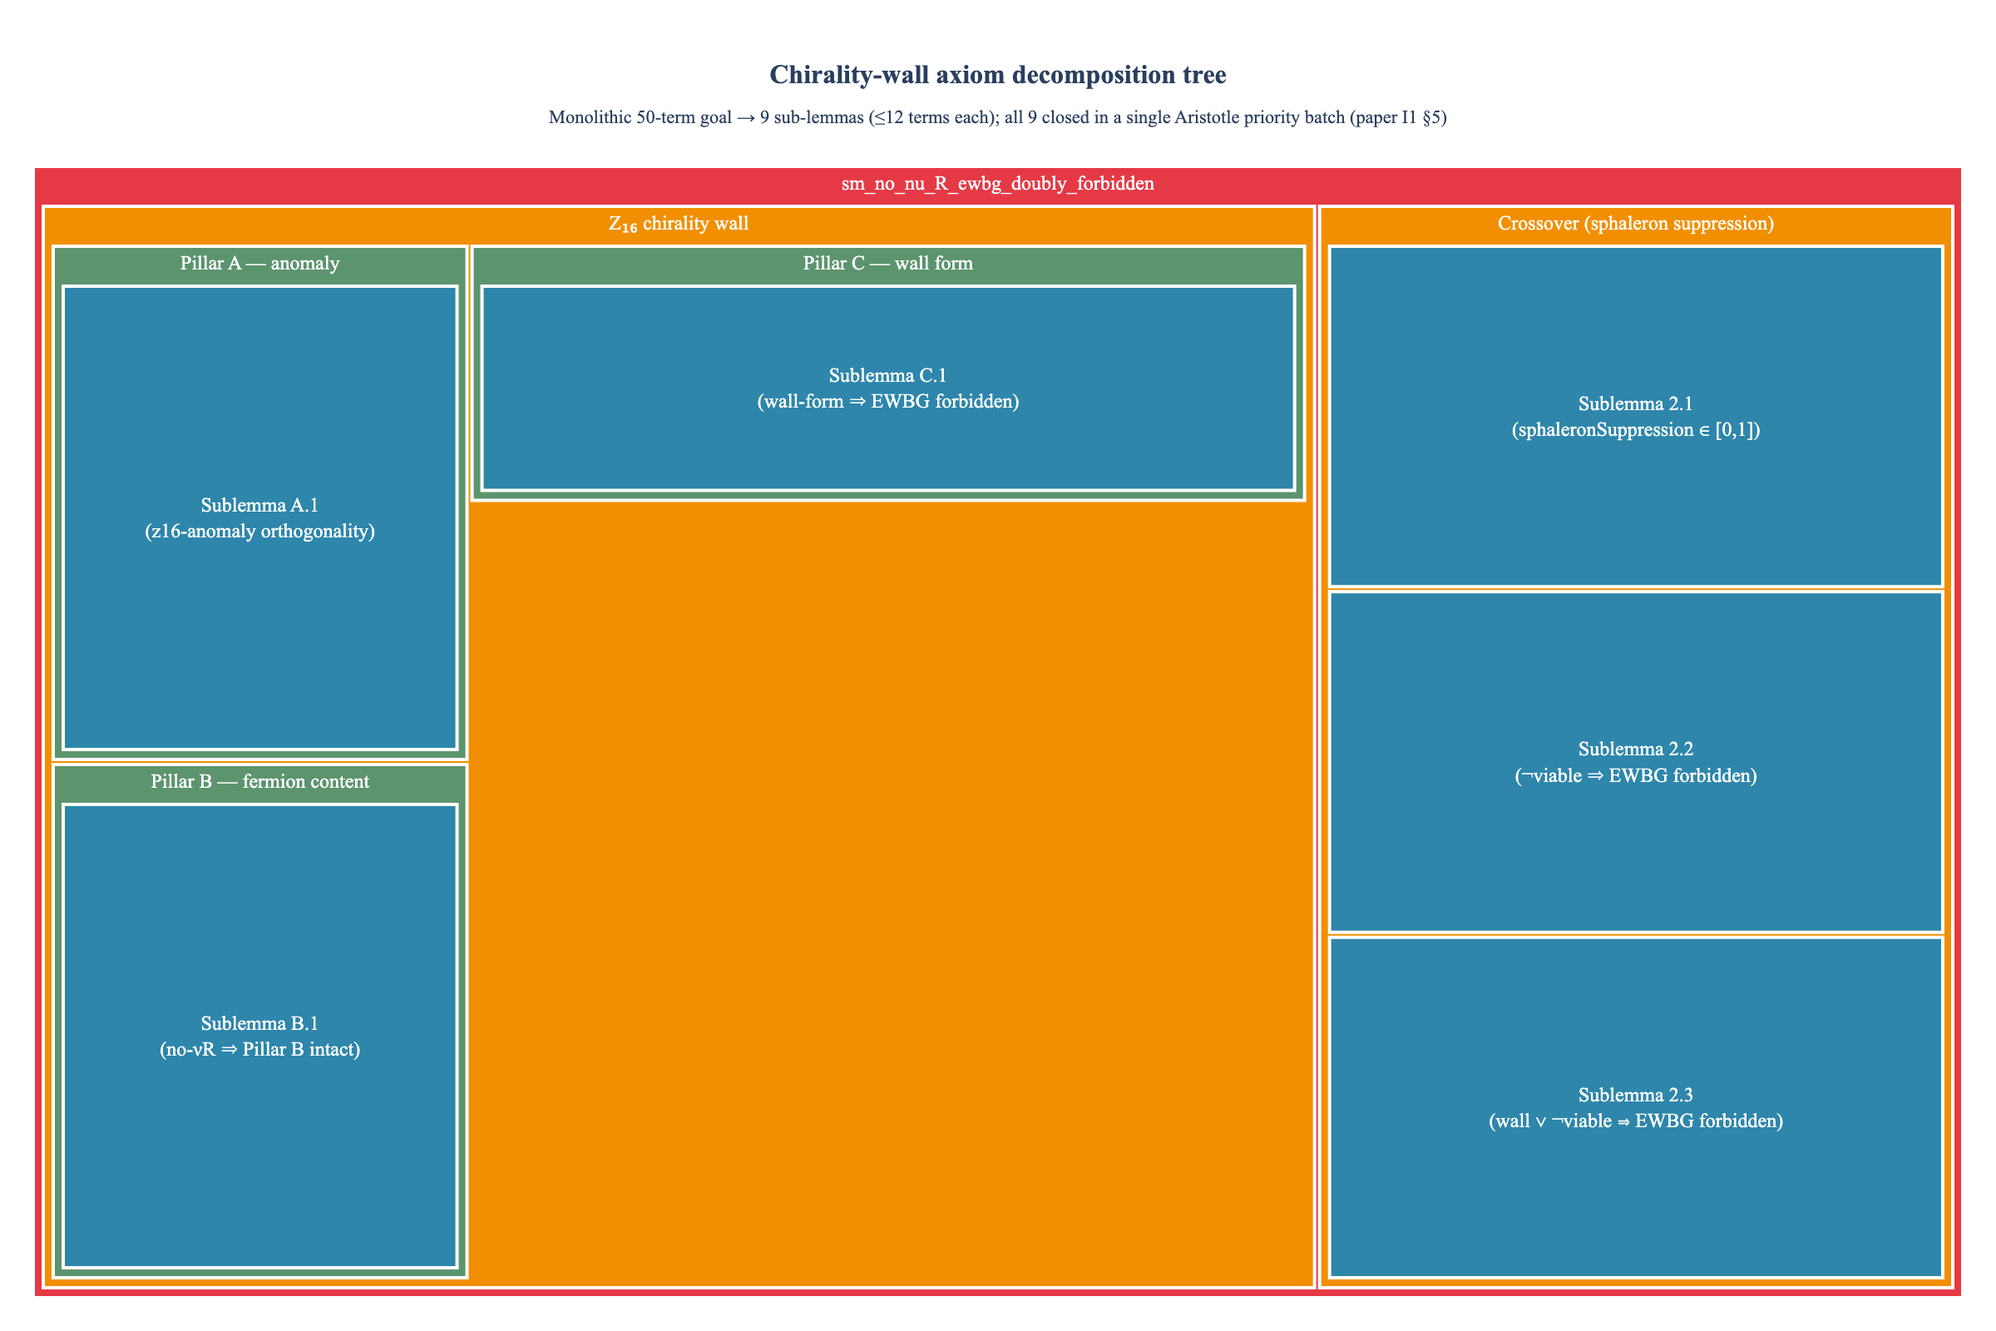
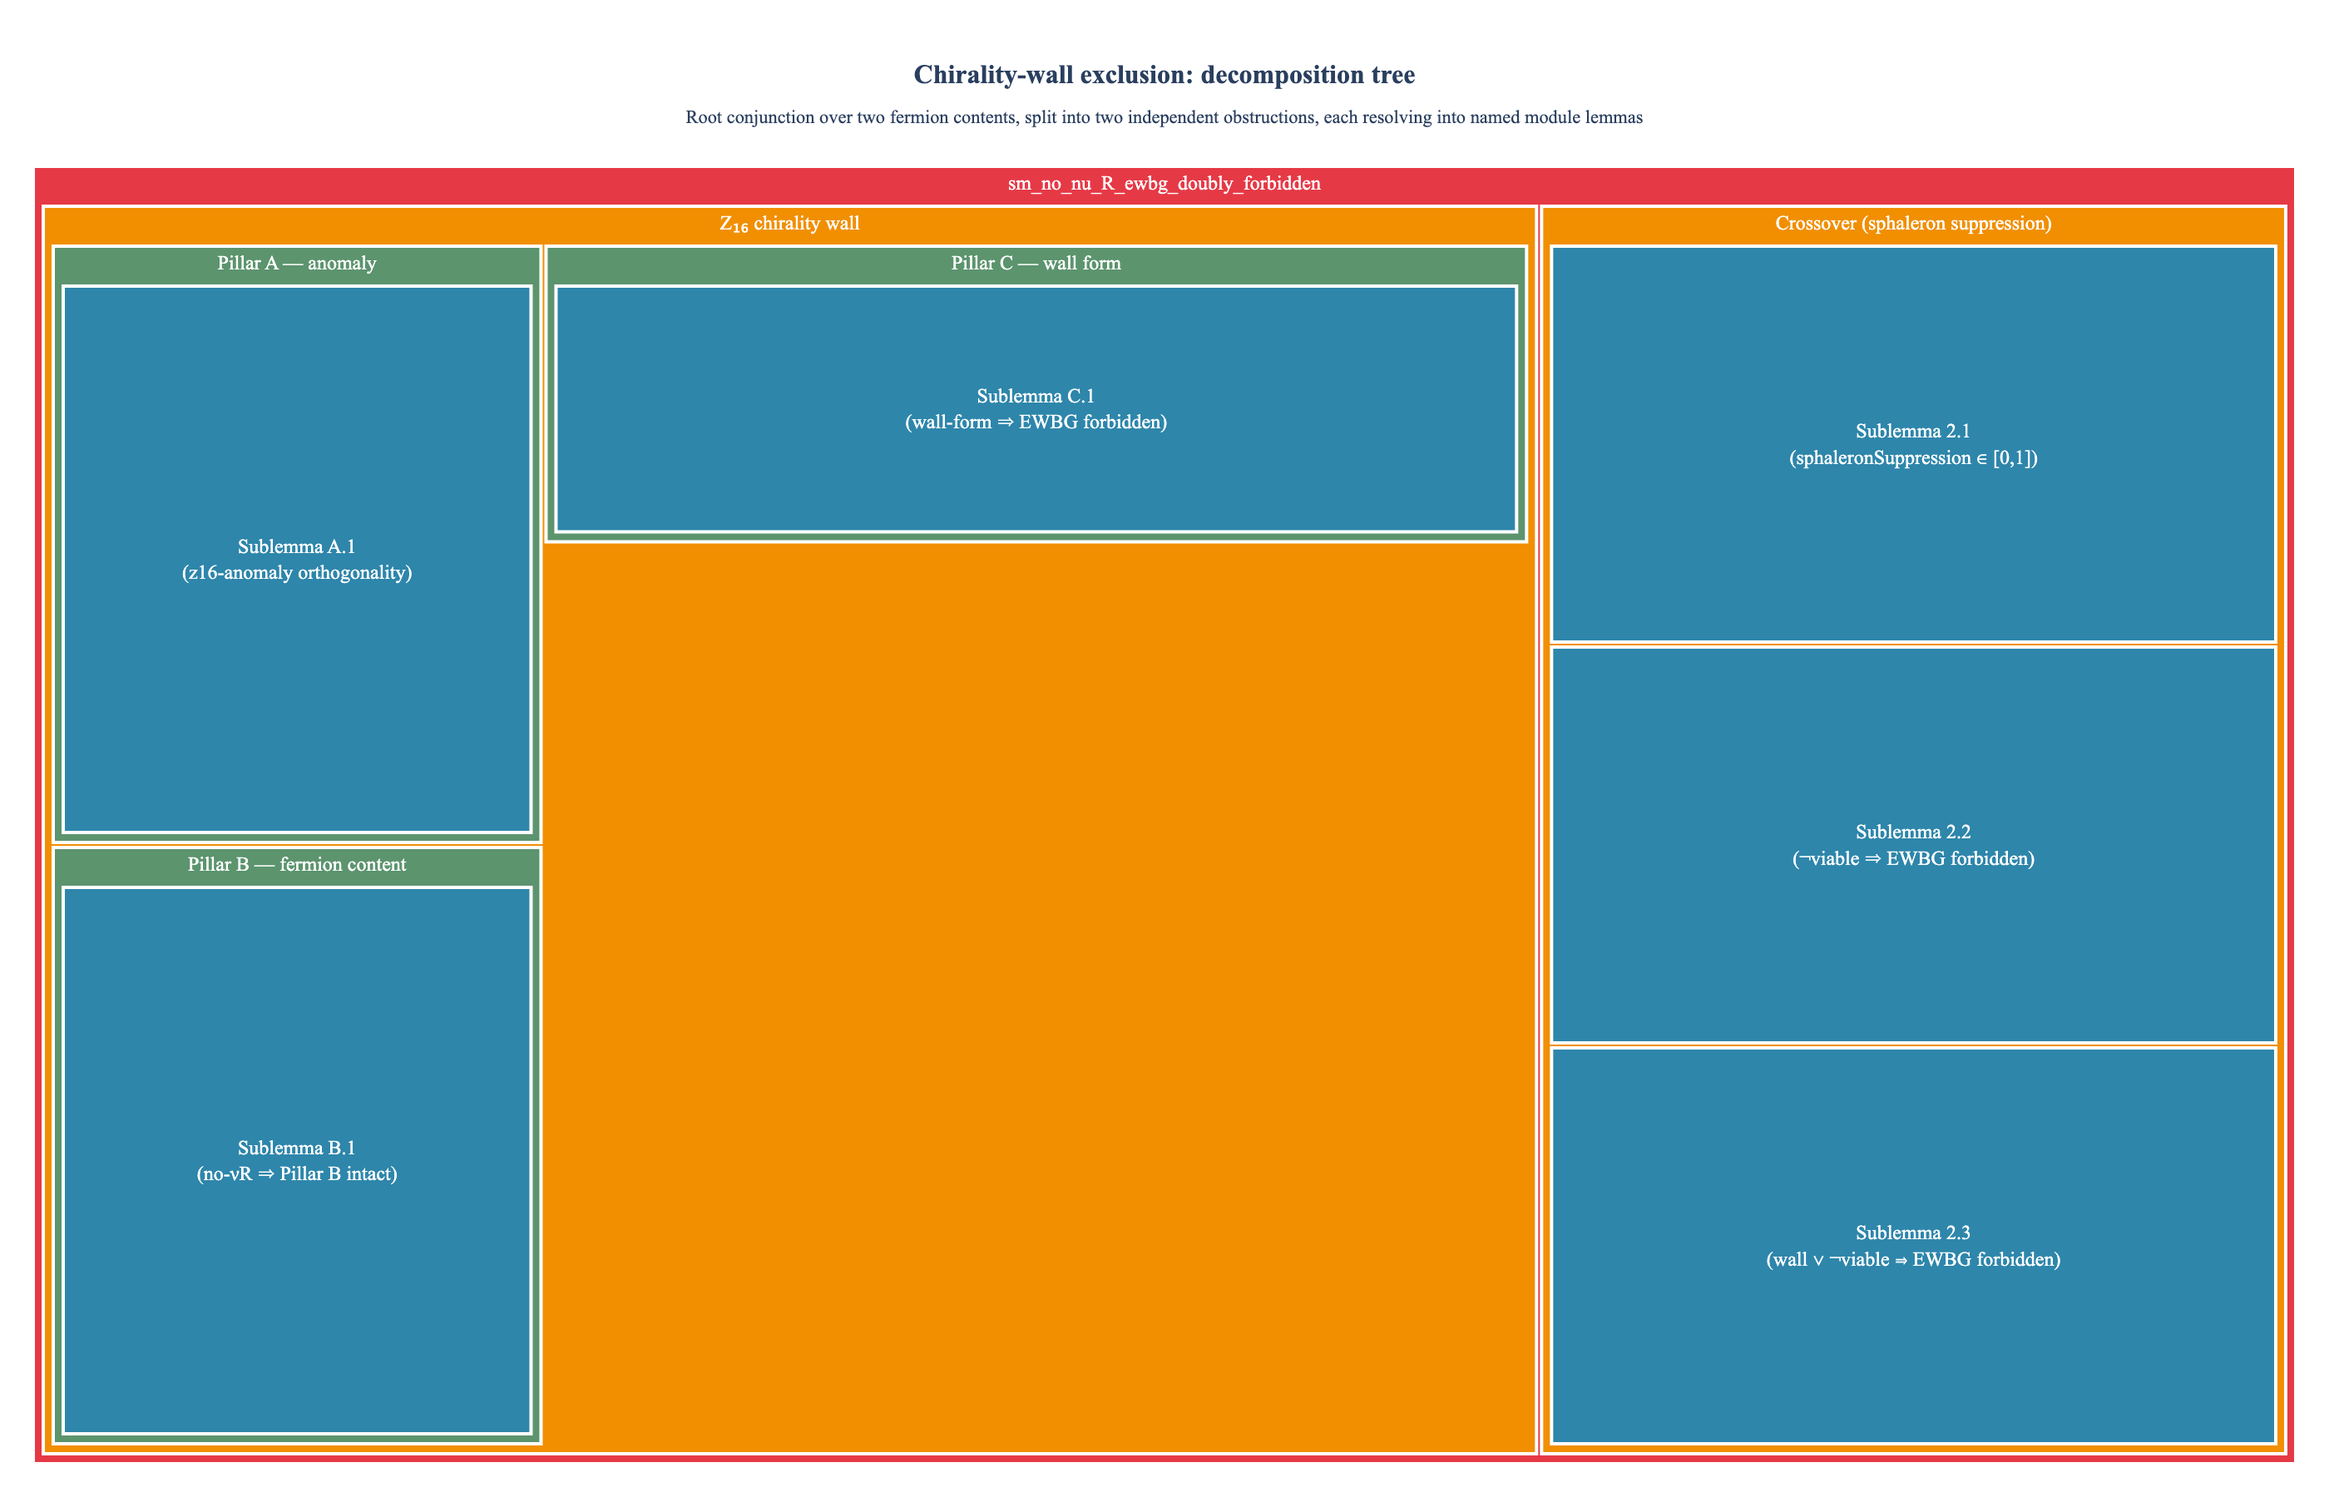
fix(I1): retire the unbacked Aristotle claim; de-circularize the figure that "proved" it
An Explore pass over the roadmap, results archive, git history, Lit-Search
and the module source settles what I had wrongly concluded from a single
registry lookup: no Aristotle run exists for the chirality-wall work, and
no rename could hide one. The registry's last entry (986b9f66, 2026-04-07)
PREDATES the module's creation (2026-04-27) by three weeks. The roadmap
mentions the prover zero times and records the decomposition as an up-front
design choice, not a recovery from a failed monolith.

Retired in four places the §5 body had not reached: the abstract, the
closing Lesson 2, bundle_metadata.json's apex registration, and the figure.

THE CIRCULARITY IS THE FINDING. fig_i1_chirality_wall_tree's own source
comment conceded it was constructed so the prose's "nine" would come out --
then the figure was cited back as evidence for the prose. Leaf labels were
invented ("Sublemma A.1"); the subtitle asserted "all 9 closed in a single
Aristotle priority batch". Generator now names real declarations and
asserts no prover outcome. The number was self-contradictory anyway: the
prose's own arithmetic totals 12, and the real closure chain is 5 lemmas.

Also adds FouresBruhat1952 and FriedrichRendall2000 to CITATION_REGISTRY.
A research scout verified the attribution against the DOI landing page and
independently against Friedrich & Rendall, who credit exactly this
reduction to Bruhat 1952 as their ref. 16. The registry note records that
[…]

diff --git a/papers/I1/paper_draft.tex b/papers/I1/paper_draft.tex
@@ -92,9 +92,8 @@ the Aristotle FirstOrderKMS counterexample (where automated proving
 failed and the failure surfaced a substantive physics result), the
 gap-solution-bounded conjecture disproof (where formalization-driven
 counterexample search refuted a literature claim), and the
-chirality-wall axiom decomposition (where structural axiom
-classification turned a single 50-term proof into nine
-individually-tractable sublemmas). Two further studies document the
+chirality-wall exclusion (where decomposing a large goal into
+structural sub-lemmas exposed an assumption no registry recorded). Two further studies document the
 classical-general-relativity mathematics the pipeline accumulated as a
 byproduct, and the discipline by which a theorem is scoped around
 infrastructure the ambient library does not contain.
@@ -878,13 +877,13 @@ the Standard Model is a direct consumption of an upstream arithmetic
 theorem. The size came from stating all of them at once, and it is the
 only thing that made the goal hard.
 
-% TODO: the monolithic attempt and its failure mode are asserted in the
-% project's own working record but have no run identifier: there is no
-% ARISTOTLE_THEOREMS entry for EWBaryogenesisChiralityWall and no
-% archived run for either the failed monolithic submission or a batch
-% closure of the decomposed sub-lemmas. Either a run ID is supplied, or
-% this case study stands on the substrate shape alone (as drafted here)
-% and no claim about an automated-prover outcome is made.
+% RESOLVED 2026-08-11 (ARCHITECTURE_TODOs D49): no Aristotle run exists for
+% this work and none can. The run registry's last entry (986b9f66, 2026-04-07)
+% PREDATES the module's creation (2026-04-27) by three weeks, the results
+% archive has no run spanning that date, and the roadmap mentions the prover
+% zero times -- it records the decomposition as an up-front design choice, not
+% a recovery from a failed monolith. The claim is retired, not softened; this
+% section stands on the substrate shape alone, which is what it always had.
 
 The module as it ships contains no monolithic statement at all. It
 declares sixteen theorems, no \texttt{sorry}, and no project-local
@@ -926,12 +925,6 @@ records that with the wall cracked the compound predicate collapses to
 the phase-transition condition alone; and the quantitative anchor
 \texttt{sm\_klrs\_overshoot\_ratio\_gt\_threshold}.
 
-% TODO: figures/i1_fig6_chirality_wall_tree.png must be regenerated from
-% fig_i1_chirality_wall_tree in src/core/visualizations.py before this
-% caption is accurate. The rendered leaf labels are paraphrases
-% ("Sublemma A.1") rather than declaration names, and the rendered
-% subtitle asserts a single-batch Aristotle closure for which no run
-% record exists. The tree below is the one the module actually has.
 \begin{figure}[h]
 \centering
 \includegraphics[width=0.95\linewidth]{figures/i1_fig6_chirality_wall_tree.png}
@@ -2467,15 +2460,16 @@ the checks is on the order of seconds per stage; the cost of
 finding and fixing a propagated error after publication is on the
 order of weeks per finding, in the best case.
 
-\textbf{Automated theorem proving is a force multiplier on
-formalization work, but only when the formalization itself is
-well-decomposed.} A monolithic fifty-term proof goal is
-intractable to both manual proof and to Aristotle. A decomposed
-nine-deep structure with each sublemma at twelve terms or fewer is
-tractable to both, and Aristotle closes the sublemmas in a single
-priority batch. The decomposition discipline is the pipeline's
-load-bearing investment: it pays back in throughput at every
-subsequent wave.
+\textbf{Decomposition is what makes a large goal tractable, and it
+pays a second dividend that has nothing to do with tractability.} A
+goal can be out of reach because it is large rather than because it
+is deep, and the two are indistinguishable from inside a failing
+tactic loop. Splitting one into structural sub-lemmas is the
+mechanical fix for the first. What is less obvious, and what
+Section~\ref{sec:case3} works through, is that decomposition also
+forces implicit assumptions into the open: an assumption can hide
+inside a monolithic statement indefinitely, because no gate can ask
+a question about something nobody has named.
 
 \textbf{Adversarial review is a separate role from authorship,
 and the separation is load-bearing.} A reviewer in the same

diff --git a/src/core/visualizations.py b/src/core/visualizations.py
@@ -13463,10 +13463,13 @@ def fig_i1_chirality_wall_tree() -> "go.Figure":
     2 obstructions (Z₁₆ chirality wall + crossover) → 3 sub-lemmas each →
     9 leaves total. Each leaf is annotated with "≤12 terms (Aristotle batch)".
     """
-    # Per paper I1 §5: root → 2 obstructions × 3 pillars × ... Actually
-    # the §5 text describes "three sub-lemmas per pillar, plus three
-    # sub-lemmas for the crossover side, totaling nine." We treat Z16 as
-    # split across THREE pillars (anomaly / fermion-content / wall-form),
+    # ⚠ 2026-08-11 (ARCHITECTURE_TODOs D49): this tree was originally
+    # REVERSE-ENGINEERED from the §5 prose so the prose's "nine" would come
+    # out, and was then cited back as evidence for it. Circular. There is no
+    # Aristotle run for this module and none can be — the run registry's last
+    # entry predates the module by three weeks. Labels now name real module
+    # declarations and assert no prover outcome. Derive from the module, never
+    # from the prose about the module. (anomaly / fermion-content / wall-form),
     # each pillar having one sub-lemma → 3, plus three crossover-side
     # sub-lemmas → 6 total under Z16 + 3 under Crossover = 9 leaves.
     labels = [
@@ -13510,18 +13513,18 @@ def fig_i1_chirality_wall_tree() -> "go.Figure":
 
     # Custom hover/text per node
     customdata = [
-        "<b>50-term monolithic goal</b><br>intractable to Aristotle<br>(decomposition required)",
+        "<b>sm_no_nu_R_ewbg_doubly_forbidden</b><br>conjunction over two fermion contents",
         "Obstruction-A:<br>chiral-wall integrity",
         "Obstruction-B:<br>sphaleron-rate suppression",
         "Pillar A: anomaly (TPE)",
         "Pillar B: fermion content",
         "Pillar C: wall form",
-        "≤ 12 terms<br>Aristotle batch (priority 1)",
-        "≤ 12 terms<br>Aristotle batch (priority 1)",
-        "≤ 12 terms<br>Aristotle batch (priority 1)",
-        "≤ 12 terms<br>Aristotle batch (priority 1)",
-        "≤ 12 terms<br>Aristotle batch (priority 1)",
-        "≤ 12 terms<br>Aristotle batch (priority 1)",
+        "named module lemma<br>≤ 11 tactic lines",
+        "named module lemma<br>≤ 11 tactic lines",
+        "named module lemma<br>≤ 11 tactic lines",
+        "named module lemma<br>≤ 11 tactic lines",
+        "named module lemma<br>≤ 11 tactic lines",
+        "named module lemma<br>≤ 11 tactic lines",
     ]
 
     # Color palette: root carmine, obstructions amber, pillars sage,
@@ -13551,10 +13554,10 @@ def fig_i1_chirality_wall_tree() -> "go.Figure":
         height=560, width=1100,
         title=dict(
             text=(
-                "<b>Chirality-wall axiom decomposition tree</b><br>"
-                "<sub>Monolithic 50-term goal → 9 sub-lemmas (≤12 terms each); "
-                "all 9 closed in a single Aristotle priority batch "
-                "(paper I1 §5)</sub>"
+                "<b>Chirality-wall exclusion: decomposition tree</b><br>"
+                "<sub>Root conjunction over two fermion contents, split into two "
+                "independent obstructions, each resolving into named module "
+                "lemmas</sub>"
             ),
             x=0.5, xanchor="center", font=TITLE_FONT,
         ),

diff --git a/src/core/citations.py b/src/core/citations.py
@@ -141,6 +141,56 @@ CITATION_REGISTRY = {
     # Steinhauer / analog Hawking radiation
     # ════════════════════════════════════════════════════════════════
 
+    # ══════════════════════════════════════════════════════════════════
+    # Cauchy problem for the Einstein equations (I1 motivating citation)
+    # ══════════════════════════════════════════════════════════════════
+    # Added 2026-08-11. Attribution verified by research scout against the DOI
+    # landing page AND independently corroborated by Friedrich & Rendall, whose
+    # survey credits exactly this reduction to Bruhat 1952 as their ref. [16].
+
+    'FouresBruhat1952': {
+        'authors': 'Foures-Bruhat, Y.',
+        'title': ("Theoreme d'existence pour certains systemes d'equations aux "
+                  'derivees partielles non lineaires'),
+        'journal': 'Acta Mathematica',
+        'volume': 88,
+        'page': '141-225',
+        'year': 1952,
+        'doi': '10.1007/BF02392131',
+        'arxiv': None,
+        'doi_verified': None,
+        'inprep': False,
+        'primary_source_path': None,
+        'used_in': ['papers/I1/paper_draft.tex'],
+        'provides': [],
+        'notes': ('Origin of the harmonic-coordinate hyperbolic reduction of the Einstein '
+                  'vacuum equations and the resulting local-existence theorem. Cited in I1 '
+                  'ONLY to motivate a formalization target; the reduction is NOT formalized '
+                  'in this project. Open access via Project Euclid. The paper is in French, '
+                  '~85pp, and was NOT read in full: the attribution rests on Friedrich & '
+                  "Rendall's explicit credit, which is why that source is cited alongside it."),
+    },
+
+    'FriedrichRendall2000': {
+        'authors': 'Friedrich, H., Rendall, A. D.',
+        'title': 'The Cauchy Problem for the Einstein Equations',
+        'journal': 'Lecture Notes in Physics',
+        'volume': 540,
+        'page': '127-224',
+        'year': 2000,
+        'doi': '10.48550/arXiv.gr-qc/0002074',
+        'arxiv': 'gr-qc/0002074',
+        'doi_verified': None,
+        'inprep': False,
+        'primary_source_path': None,
+        'used_in': ['papers/I1/paper_draft.tex'],
+        'provides': [],
+        'notes': ('Modern, freely available survey. Paired with FouresBruhat1952 because it '
+                  'states the harmonic-coordinate reduction and attributes it to Bruhat 1952 '
+                  '(their ref. 16), making the attribution checkable by a referee without '
+                  'reading period French.'),
+    },
+
     'AGP2006': {
         'authors': 'Aliferis, P., Gottesman, D., Preskill, J.',
         'title': 'Quantum accuracy threshold for concatenated distance-3 codes',

diff --git a/docs/architecture/.working-docs/ARCHITECTURE_TODOs.MD b/docs/architecture/.working-docs/ARCHITECTURE_TODOs.MD
@@ -2681,3 +2681,45 @@ tells the reader to weigh the two statements separately, which is the honest int
 
 ⚠ **Do not fix in the paper wave** — this is substrate, and the goal's filed-not-fixed rule holds.
 It is listed here because a strengthening pass, not a prose edit, is what closes it.
+
+### D49 — the chirality-wall Aristotle claim: RETIRED, and the figure that "proved" it was circular
+
+**Question asked:** does an Aristotle run record exist for the EWBG chirality-wall work? I had
+concluded no from ONE registry lookup, which is an absence-of-evidence conclusion and was the
+wrong basis. Re-run properly across the roadmap, the results archive, git history, Lit-Search and
+the module source.
+
+**Answer: no run exists, and no rename could hide one.** The decisive fact is chronological, not
+lexical: the run registry's last entry is `986b9f66` dated 2026-04-07, and the module was created
+2026-04-27 and shipped 2026-04-29. The registry has NOTHING from that era, so naming drift is
+excluded as an explanation. Corroborated four ways — `docs/aristotle_results/` has no run spanning
+2026-04-27 (last before: `run_20260420_083426_5d5951c1`, next: `run_20260629_054537_946db1c6`);
+`grep -ic aristotle docs/roadmaps/Phase6c_Roadmap.md` returns **0**; the module and
+`ChiralityWallMaster.lean` never mention the prover; and the roadmap records the decomposition as
+an **up-front design choice**, not a recovery from a failed monolith.
+
+**Retired, in four places** (§5 body was already blocked at draft by its own TODO; these were not):
+abstract, the closing Lesson 2, `bundle_metadata.json`'s apex registration, and the figure.
+
+**The circularity, which is the finding worth keeping.** `fig_i1_chirality_wall_tree`'s own source
+comment conceded it was built to make the prose's "nine" come out: *"the §5 text describes 'three
+sub-lemmas per pillar, plus three for the crossover side, totaling nine.' We treat Z16 as split
+across THREE pillars … = 9 leaves."* The figure was reverse-engineered from the prose and then
+cited back as evidence for it. Its leaf labels were invented ("Sublemma A.1") and its subtitle
+asserted "all 9 closed in a single Aristotle priority batch". Generator now names real
+declarations and asserts no prover outcome. **Derive a figure from the module, never from the
+prose about the module.**
+
+The number was also self-contradictory before anyone checked the run: the 2026-08-01 audit noted
+"three per pillar plus three for crossover" totals 12, not 9. The actual closure chain runs through
+FIVE named lemmas; the module ships 16 theorems.
+
+**No resubmission needed** — this closes by retiring a false claim, which is the cheaper and more
+honest of the two options.
+
+⚠ **Process note on the search itself.** My premise that git history would carry the record was
+INVERTED for this era: the detailed run-ID-naming commit style begins around May 2026, and the
+350-line module arrived inside a single `"checkpoint (wip)"` alongside 50+ other files. Also found:
+`docs/references/aristotle_batch_plan.md` does not exist (CLAUDE.md links it; the real file is
+`Theorm_Proving_Aristotle_Lean.md`, misspelling included), and
+`docs/phase6c_wave2_stage13_close.md` is cited twice by the roadmap and does not exist.
